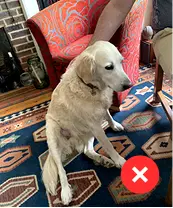
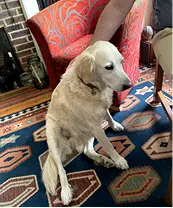
Added upscaling tool for pet photos
+ updated images for bad and good examples

Changed region(s): [[0.6936, 0.7212, 0.9249, 0.9519]]

diff --git a/server.py b/server.py
@@ -463,6 +463,18 @@ def composite_images(pet_b64: str, bg_url: str, vibe: str = "") -> str:
                 pet = pet.crop((x_offset, 0, x_offset + target_w, pet.height))
                 print(f"  📐 After portrait crop: {pet.width}×{pet.height}  ratio={pet.width/pet.height:.3f}")
 
+    # ── Pre-upscale small pets before compositing ───────────────────────────────
+    # If the shortest side is under 700px, upscale with LANCZOS first so the
+    # final scale-up to portal size has more pixels to work with — noticeably
+    # sharper result for low-res uploads without any extra API cost.
+    MIN_PET_PX = 700
+    short_side = min(pet.width, pet.height)
+    if short_side < MIN_PET_PX:
+        up = MIN_PET_PX / short_side
+        pre_w, pre_h = int(pet.width * up), int(pet.height * up)
+        pet = pet.resize((pre_w, pre_h), Image.LANCZOS)
+        print(f"  📐 Pre-upscale (×{up:.2f}): {pre_w}×{pre_h} — low-res input boosted")
+
     # Scale pet — max 90% of width, max 82% of height, aspect ratio strictly preserved
     scale = min((OUTPUT_W * 0.90) / pet.width, (OUTPUT_H * 0.82) / pet.height)
     pw, ph = int(pet.width * scale), int(pet.height * scale)
